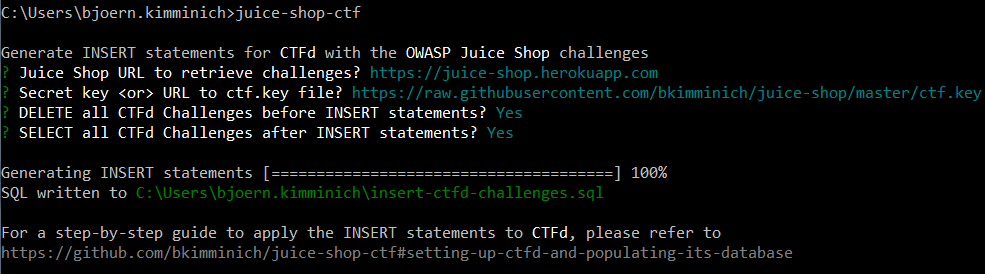
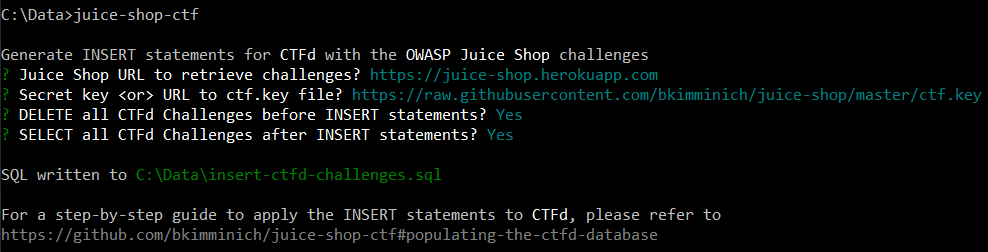
Update documentation

diff --git a/index.js b/index.js
@@ -45,7 +45,7 @@ var juiceShopCtfCli = function () {
             console.log('SQL written to ' + file)
             console.log()
             console.log('For a step-by-step guide to apply the INSERT statements to ' + 'CTFd'.bold + ', please refer to')
-            console.log('https://github.com/bkimminich/juice-shop-ctf#setting-up-ctfd-and-populating-its-database'.gray)
+            console.log('https://github.com/bkimminich/juice-shop-ctf#populating-the-ctfd-database'.gray)
           }, function (error) {
             console.log(error.red)
           })

diff --git a/README.md b/README.md
@@ -6,9 +6,9 @@
 [![bitHound Overall Score](https://www.bithound.io/github/bkimminich/juice-shop-ctf/badges/score.svg)](https://www.bithound.io/github/bkimminich/juice-shop-ctf)
 [![Dependency Status](https://gemnasium.com/badges/github.com/bkimminich/juice-shop-ctf.svg)](https://gemnasium.com/github.com/bkimminich/juice-shop-ctf)
 
-The [NPM package `juice-shop-ctf-cli` published from this repository](https://www.npmjs.com/package/juice-shop-ctf-cli) lets you create a list of `INSERT` statements for
+The NPM package [`juice-shop-ctf-cli`](https://www.npmjs.com/package/juice-shop-ctf-cli) lets you create a list of `INSERT` statements for
 the [CTFd](https://ctfd.io) database that will populate the platform for a [Capture the Flag](https://en.wikipedia.org/wiki/Capture_the_flag#Computer_security) event using
-OWASP Juice Shop.
+[OWASP Juice Shop](https://www.owasp.org/index.php/OWASP_Juice_Shop_Project).
 
 ![Example of CLI usage](cli_usage_screenshot.png)
 
@@ -26,9 +26,13 @@ Open a command line and run:
 juice-shop-ctf
 ```
 
-Then simply follow the instructions of the command line tool. Finally, apply the generated `insert-ctfd-challenges.sql` following the steps described in the next section.
+Then simply follow the instructions of the command line tool.
 
-#### Setting up [CTFd](https://ctfd.io) and populating its database
+### Populating the [CTFd](https://ctfd.io) database
+
+Apply the generated `insert-ctfd-challenges.sql` following the steps describing your own CTFd setup.
+
+#### `docker-compose` setup (including MySQL container)
 
 1. Setup [Docker host and Docker compose](https://docs.docker.com/compose/install/).
 2. Follow steps 2-4 from [the CTFd Docker setup](https://github.com/isislab/CTFd/wiki/Deployment#docker) to download the source code, create containers and start them.
@@ -40,11 +44,16 @@ Then simply follow the instructions of the command line tool. Finally, apply the
    ports:
      - "3306:3306"
    ```
-6. You can then use your favourite MySQL client to connect to the CTFd database (default credentials are root with no password) and run the `INSERT` statement you created.
+6. You can then use your favourite MySQL client to connect to the CTFd database (default credentials are root with no password) and execute the `INSERT` statement you created.
 7. When that is done, browse back to your CTFd instance UI and check everything has worked correctly.
 8. If everything has worked, do another `docker-compose down`, remove the ports section you added to `docker-compose.yml` and then do `docker-compose up` again and you are ready to go!
 
-### Alternative approach without node.js
+#### Other setups (SQLite, PostgreSQL or MySQL)
+
+1. Perform any of [the CTFd database setups](https://github.com/isislab/CTFd/wiki/SQL-Server-Setup)
+2. Connect to your database and execute the `INSERT` statement you created.
+
+### _Deprecated_ setup without the `juice-shop-ctf-cli` module
 
 1. Download the
    [GenerateCTFdInserts.html](CTFd/GenerateCTFdInserts.html) file.
